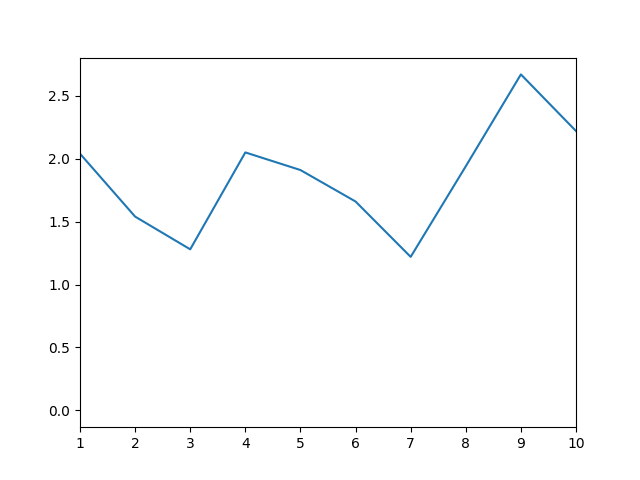
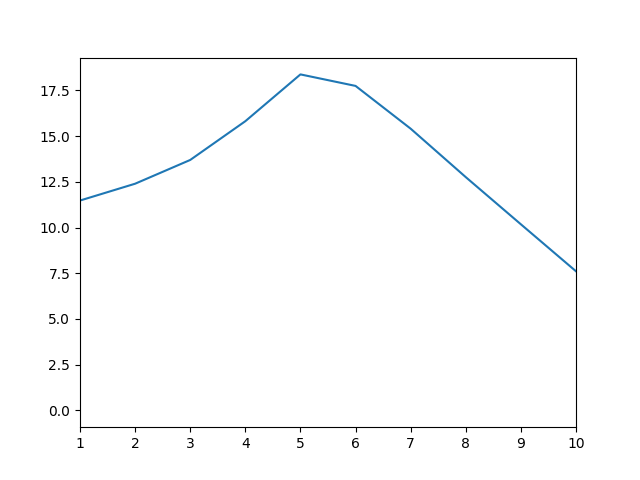
Finished the graph and put it in the stock menu. The website also fixed itself somehow.

diff --git a/main.py b/main.py
@@ -12,8 +12,8 @@ Do something with the quiz statistics on the website
 Start looking for website domains
 Get this on a bot list website
 Make $give
-Fix the website (this should help: https://replit.com/talk/ask/Matplotlib-causing-Flask-to-not-run/126931)
 '''
+from replit import db
 import ast
 import discord
 import re
@@ -78,7 +78,7 @@ with open('variables/blartcoindata.txt', 'r') as coindata:
 stockpattern = 1
 prevstockpattern = 0
 waitforpattern = 5
-#plt.plot([0, 1, 2, 3, 4, 5, 6, 7, 8, 9, 10], [0, 0, 0, 0, 0, 0, 0, 0, 0, 0, 0])
+
 def stocktick():
   global prevstockpattern
   global stockpercent
@@ -93,7 +93,7 @@ def stocktick():
     goodpercent = False
     while goodpercent == False:
       if stocknum == waitforpattern:
-        stocknum = 1
+        stocknum = 0
         waitforpattern = rand.randint(3, 6)
         prevstockpattern = stockpattern
         while prevstockpattern == stockpattern:
@@ -103,22 +103,22 @@ def stocktick():
       elif stockpattern == 2: #slow rise
         newprice = price + round(float(rand.randint(-50, 100) / 100), 2)
       elif stockpattern == 3: #fast rise
-        newprice = price + round(float(rand.randint(-50, 500) / 100), 2)
+        newprice = price + round(float(rand.randint(-50, 300) / 100), 2)
       elif stockpattern == 4: #slow fall
         newprice = price + round(float(rand.randint(-100, 50) / 100), 2)
       elif stockpattern == 5: #fast fall
-        newprice = price + round(float(rand.randint(-500, -50) / 100), 2)
+        newprice = price + round(float(rand.randint(-300, -50) / 100), 2)
       if newprice > 1 and newprice < 100 and stockpattern != prevstockpattern:
         goodpercent = True
         stockpercent = round((newprice / price) - 1, 4)
         price = newprice
-        stocknum = stocknum + 1
+        stocknum += 1
         with open('variables/blartcoindata.txt', 'w') as coindataw:
           coindataw.write(str("{0:.2f}".format(price)) + "\n" + str("{0:.2f}".format(stockpercent)))
         with open('variables/blartcoingraphdata.txt', 'r') as graphdata:
           graphdatavar = str(graphdata.read())
         with open('variables/blartcoingraphdata.txt', 'w') as graphdataw:
-          graphdataw.write(str(graphdatavar)[5:] + "\n" + str("{0:.2f}".format(price)))
+          graphdataw.write(str(graphdatavar)[len(str(graphdatavar).split("\n")[0]) + 1:] + "\n" + str("{0:.2f}".format(price)))
         with open('variables/blartcoingraphdata.txt', 'r') as graphdata:
           graphdatavar = str(graphdata.read())
         graphlist = [0]
@@ -131,11 +131,15 @@ def stocktick():
         #this was way harder than it should have been
         bgimg = Image.open("graphbg.png")
         graphimg = Image.open("graphline.png")
-        graphimg = graphimg.crop((43, 58, 577, 428))
+        graphimg = graphimg.crop((43, 58, 614, 428))
         final2 = Image.new("RGBA", bgimg.size)
         final2 = Image.alpha_composite(final2, bgimg.convert('RGBA'))
         final2 = Image.alpha_composite(final2, graphimg.convert('RGBA'))
         final2.save("graph.png")
+      else:
+        prevstockpattern = stockpattern
+        while prevstockpattern == stockpattern:
+          stockpattern = rand.randint(1, 5)
 stocktick()
 
 client = discord.Client()
@@ -148,6 +152,8 @@ async def on_ready():
     serverslist = ast.literal_eval(f.read())
     numofserversstat(len(serverslist))
   await client.change_presence(activity=discord.Activity(type=discord.ActivityType.watching, name=str(len(serverslist)) + " servers. $help"))
+  channel = client.get_channel(823908777802989599)
+  await channel.purge()
 
 @client.event
 async def on_message(message):
@@ -165,6 +171,8 @@ async def on_message(message):
       return
     #if the message is from Paul, do nothing
     if message.author == client.user:
+      if message.channel == client.get_channel(823908777802989599):
+        db["graphurl"] = str(message.attachments[0].url)
       upcomm()
       try:
         if message.guild.get_member(client.user.id).display_name == "Paul Blart Mall Bot":
@@ -658,34 +666,57 @@ async def on_message(message):
           stockembed.add_field(name="Blartcoin Value", value=("📉 {1:.2f}%🔽\nValue: ${0:.2f}").format(round(price, 2), stockpercent * 100), inline=False)
         else:
           stockembed.add_field(name="Blartcoin Value", value=("📈 {1:.2f}%🔼\nValue: ${0:.2f}").format(round(price, 2), stockpercent * 100), inline=False)
-        stockembed.set_footer(text="One tick happens every 60 seconds.\nThis message will remain live for 10 minutes after being sent.\nInformation provided by the Mall Jones Index.")
+        channel = client.get_channel(823908777802989599)
+        await channel.send(file=discord.File("graph.png"))
+        stockembed.set_image(url=db["graphurl"])
+        stockembed.set_footer(text="Time information will be available in the next tick.\nThis message will remain live for 10 minutes after being sent.")
         #stockembed.set_thumbnail(url="https://cdn.discordapp.com/attachments/529558484208058370/823102022953074718/stock_market.png")
-        #file = discord.File("graph.png")
-        #stockembed.set_image(url="attachment://graph.png")
         stockmessage = await message.channel.send(embed=stockembed)
-        for second in range(1, 120):
-          await asyncio.sleep(5)
-          with open('variables/blartcoindata.txt', 'r') as coindata:
-            coindatavar = coindata.read()
-            price = float(coindatavar.split("\n")[0])
-            stockpercent = float(coindatavar.split("\n")[1])
-          if usermoneybalance < 0:
-            stockembed = discord.Embed(title="Stock Market", description=("Profits: ${0:.2f}\nBlartcoins: " + str(usercoinbalance)).format(round(usermoneybalance, 2) * -1), color=0x00ff00)
-          else:
-            stockembed = discord.Embed(title="Stock Market", description=("Profits: ${0:.2f}\nBlartcoins: " + str(usercoinbalance)).format(round(usermoneybalance, 2)), color=0x00ff00)
-          if stockpercent < 0:
-            stockembed.add_field(name="Blartcoin Value", value=("📉 {1:.2f}%🔽\nValue: ${0:.2f}").format(round(price, 2), stockpercent * 100), inline=False)
-          else:
-            stockembed.add_field(name="Blartcoin Value", value=("📈 {1:.2f}%🔼\nValue: ${0:.2f}").format(round(price, 2), stockpercent * 100), inline=False)
-          stockembed.set_footer(text="One tick happens every 60 seconds.\nThis message will remain live for 10 minutes after being sent.\nInformation provided by the Mall Jones Index.")
-          #stockembed.set_thumbnail(url="https://cdn.discordapp.com/attachments/529558484208058370/823102022953074718/stock_market.png")
-          #file = discord.File("graph.png")
-          stockembed.set_image(url="")
-          await stockmessage.edit(embed=stockembed)
+        with open('variables/blartcoingraphdata.txt', 'r') as graphdata:
+          prevgraphdata = str(graphdata.read())
+        seconds = "Time information will be available in the next tick."
+        secnum = 60
+        countdown = False
+        for second in range(0, 120):
+          with open('variables/blartcoingraphdata.txt', 'r') as graphdata:
+            prevgraphdata = str(graphdata.read())
+            await asyncio.sleep(5)
+          with open('variables/blartcoingraphdata.txt', 'r') as graphdata:
+            newgraphdata = str(graphdata.read())
+            if countdown == True:
+              secnum = secnum - 5
+              if secnum == 0:
+                secnum = 60
+              seconds = "Next tick in " + str(secnum) + " seconds."
+            if prevgraphdata != newgraphdata:
+              countdown = True
+              secnum = 60
+              seconds = "Next tick in " + str(secnum) + " seconds."
+              with open('variables/blartcoindata.txt', 'r') as coindata:
+                coindatavar = coindata.read()
+                price = float(coindatavar.split("\n")[0])
+                stockpercent = float(coindatavar.split("\n")[1])
+              if usermoneybalance < 0:
+                stockembed = discord.Embed(title="Stock Market", description=("Profits: ${0:.2f}\nBlartcoins: " + str(usercoinbalance)).format(round(usermoneybalance, 2) * -1), color=0x00ff00)
+              else:
+                stockembed = discord.Embed(title="Stock Market", description=("Profits: ${0:.2f}\nBlartcoins: " + str(usercoinbalance)).format(round(usermoneybalance, 2)), color=0x00ff00)
+              if stockpercent < 0:
+                stockembed.add_field(name="Blartcoin Value", value=("📉 {1:.2f}%🔽\nValue: ${0:.2f}").format(round(price, 2), stockpercent * 100), inline=False)
+              else:
+                stockembed.add_field(name="Blartcoin Value", value=("📈 {1:.2f}%🔼\nValue: ${0:.2f}").format(round(price, 2), stockpercent * 100), inline=False)
+              stockembed.set_footer(text=seconds + "\nThis message will remain live for 10 minutes after being sent.")
+              #stockembed.set_thumbnail(url="https://cdn.discordapp.com/attachments/529558484208058370/823102022953074718/stock_market.png")
+              channel = client.get_channel(823908777802989599)
+              await channel.send(file=discord.File("graph.png"))
+              stockembed.set_image(url=db["graphurl"])
+              await stockmessage.edit(embed=stockembed)
+            else:
+              stockembed.set_footer(text=seconds + "\nThis message will remain live for 10 minutes after being sent.")
+              await stockmessage.edit(embed=stockembed)
         await asyncio.sleep(5)
-        stockembed.set_footer(text="This message is no longer live. Do $stock for a live reading.\nInformation provided by the Mall Jones Index.")
-        #file = discord.File("graph.png")
-        #stockembed.set_image(url="attachment://graph.png")
+        stockembed.set_footer(text="This message is no longer live. Do $stock for a live reading.")
+        for messages in channel:
+          await messages.delete(messages)
         await stockmessage.edit(embed=stockembed)
     if message.content.startswith("$sell "):
       with open('variables/blartcoindata.txt', 'r') as coindata:
@@ -814,8 +845,6 @@ async def on_message(message):
             placeposition = "th"
           embedVar.set_footer(text="You are in " + str(userplace) + placeposition + " place out of " + str(len(leaderboardnames)) + " people.")
       await message.channel.send(embed=embedVar)
-    if message.content == "$test":
-      await message.channel.send(file=discord.File('graph.png'))
     if message.content == "$buy":
       await message.channel.send("You gotta tell me how many Blartcoins you want to buy.")
     if message.content == "$sell":
